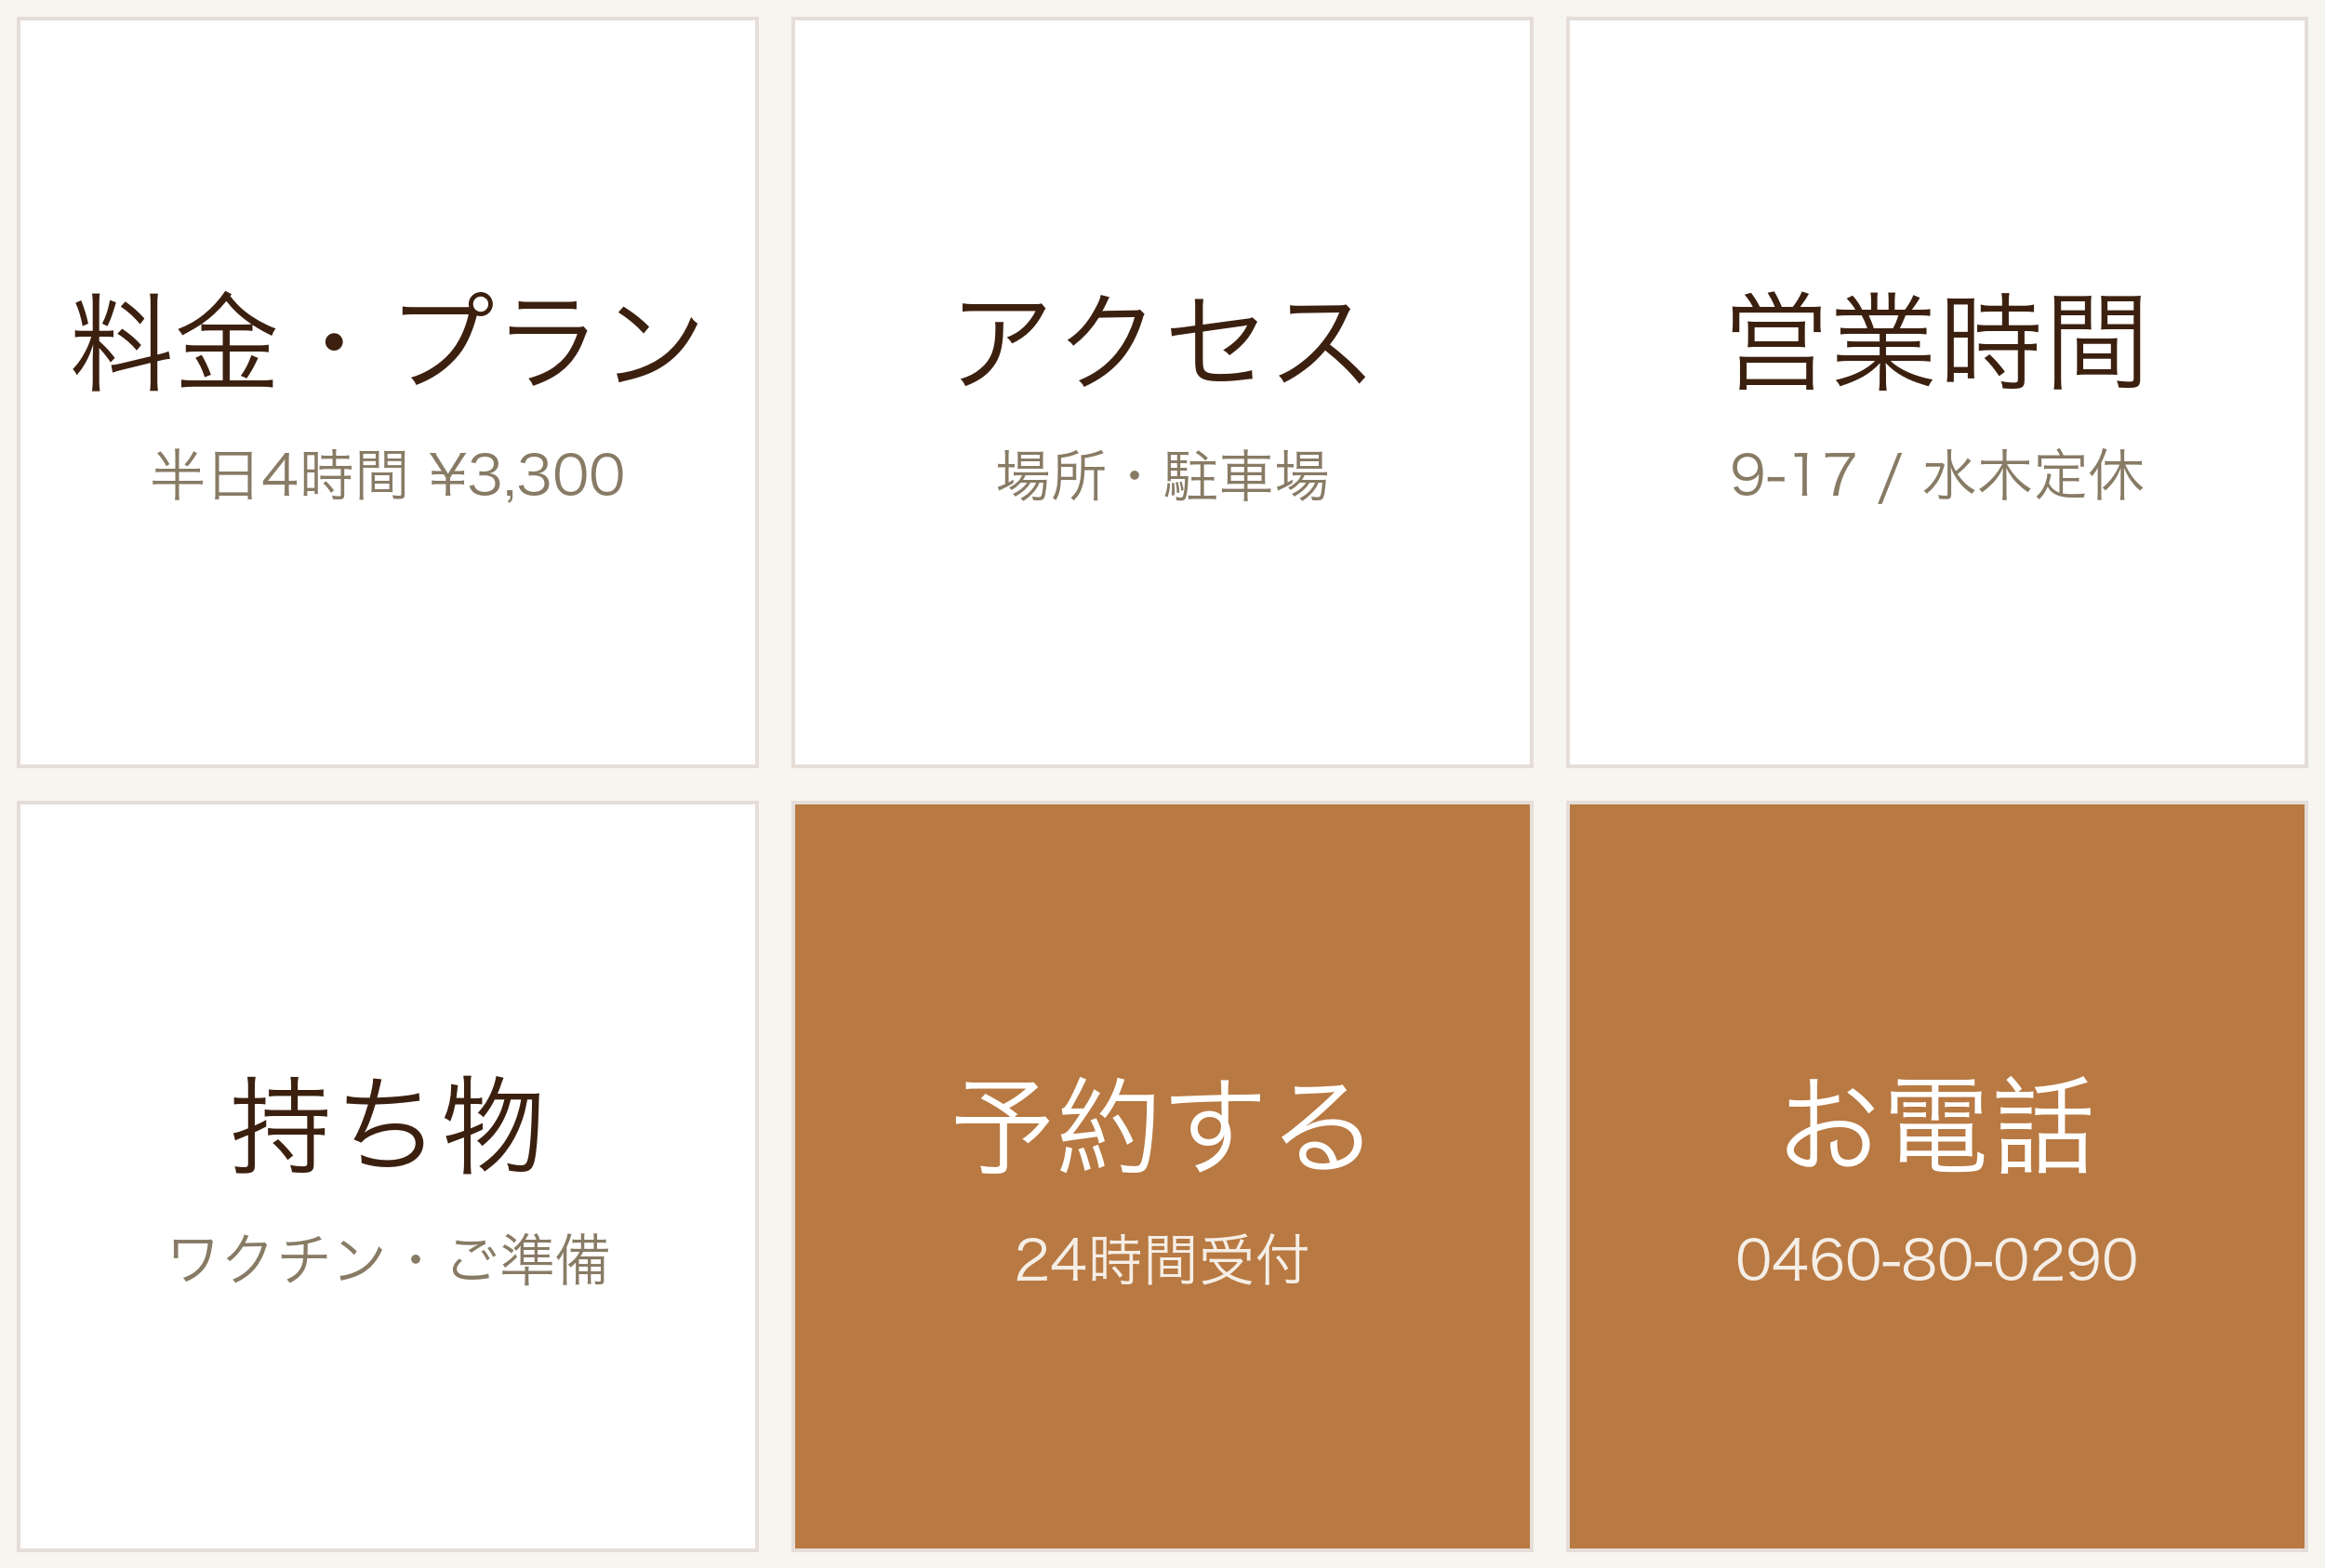
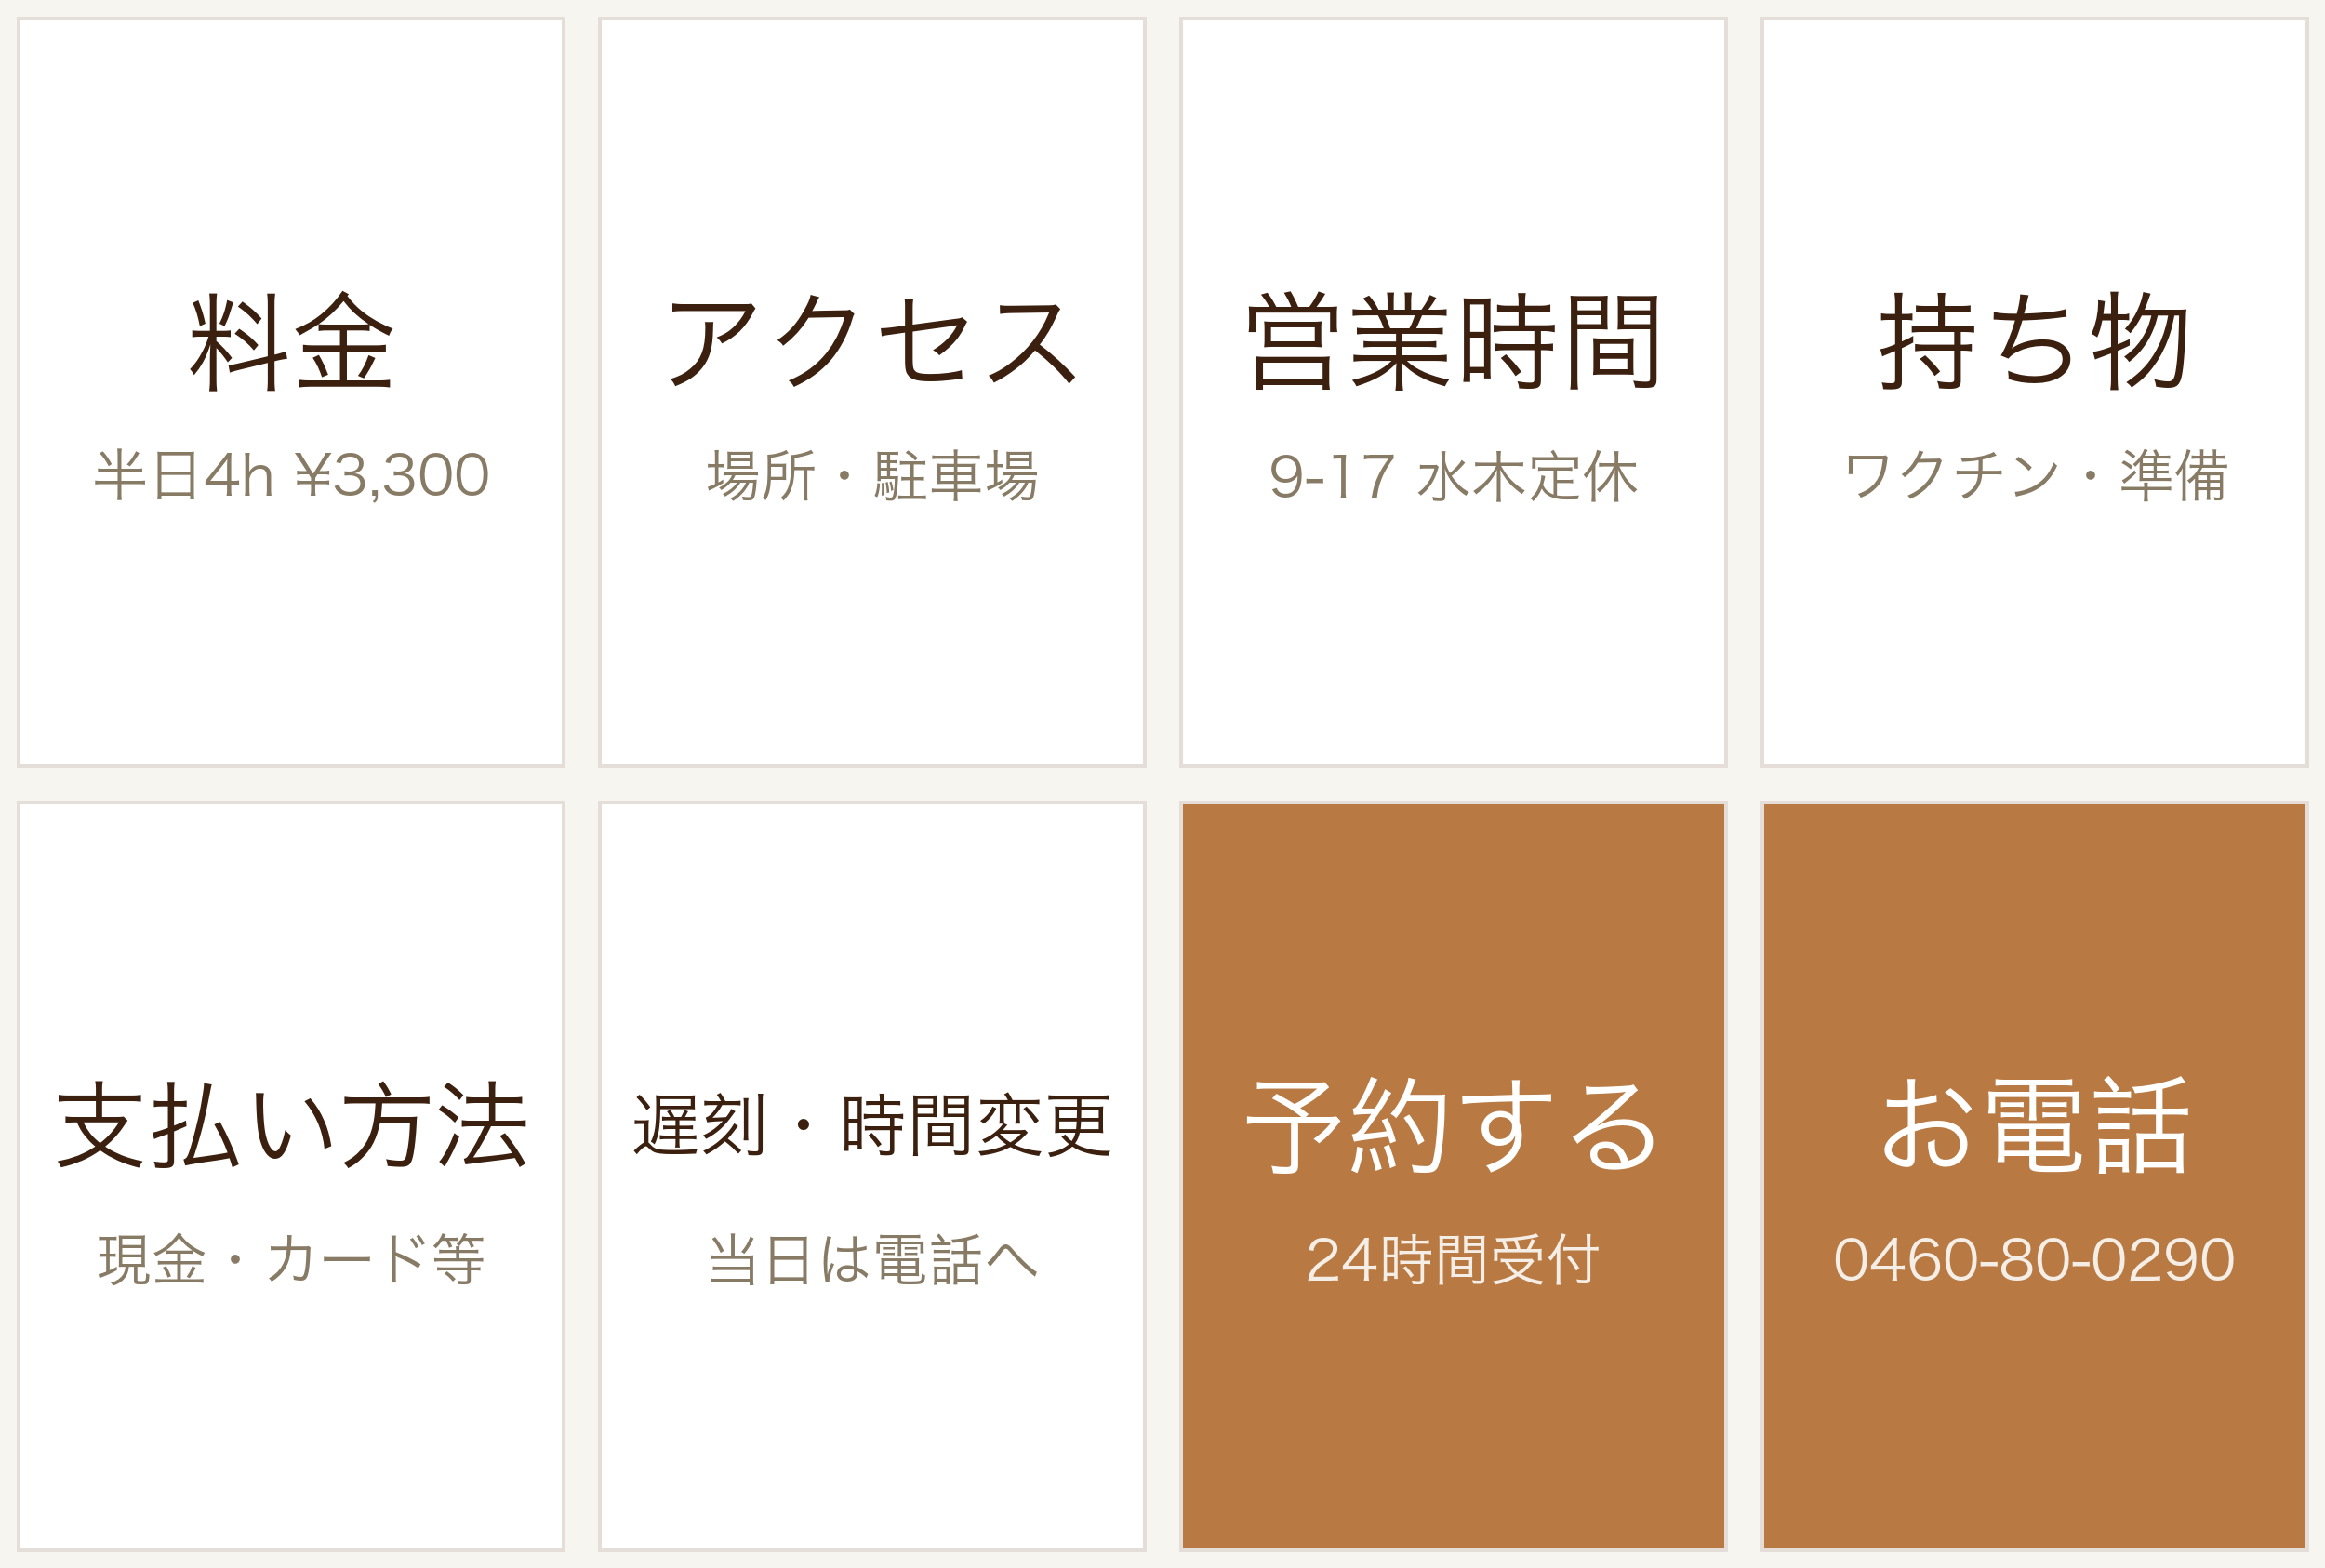
LINEメニューをpostback化し、自由文の問い合わせは常にスタッフ対応に変更
- リッチメニューのFAQボタンをmessage送信からpostbackに変更し、
  「ボタンで選んだ」か「お客様が自由文で打った」かをWebhook側で判別可能に
- ボタン経由（postback）は今まで通り即座に自動回答、アラートなし
- 自由文（message）は内容にかかわらず受付メッセージのみ返し、必ずスタッフへ
  アラートメールを送るよう統一（キーワード誤爆で的外れな自動回答をしないため）
- 上記により needsHuman フラグは不要になったため削除
- 新FAQ「到着時間の変更・遅刻」を追加し、メニューを4列×2行・8マスに拡張
  （支払い方法・到着時間の変更/遅刻を新規ボタン化）
- 回帰テスト(test-line-faq.ts)・敵対的テストツール(match-cases.ts)を新仕様に追従

diff --git a/src/lib/line-faq.ts b/src/lib/line-faq.ts
@@ -9,8 +9,11 @@
 //  - 対応外サービス（トリミング等のケア・送迎）は「料金」「予約」より前
 //    （"トリミング料金" "シャンプー予約" を対応外案内へ寄せる）。
 //
-// needsHuman=true のルールは、定型回答を返したうえでスタッフへアラートメールを送る。
-// needsHuman=false（確定回答が言える質問）は自動返信だけで完結＝不要なアラートを出さない。
+// 2026-07〜: リッチメニューのボタンは postback 化し、ボタン経由（=このcategory名を直接指定）
+// のときだけ bot が reply を自動送信する。お客様が自由文でタイプした場合は matchFaqReply の
+// category を「アラートメールのラベル用」に使うだけで、reply は送らずスタッフが個別対応する
+// （webhook/route.ts 参照）。そのため needsHuman フラグは廃止済み（旧: カテゴリ単位でアラート
+// 要否を制御していたが、今は「ボタン=自動」「自由文=常に人」で一律に決まるため不要）。
 import type { LineMessage } from "./line";
 
 export const BOOKING_URL = "https://liff.line.me/2009688745-qZi2jM4g";
@@ -20,7 +23,6 @@ export interface FaqRule {
   category: string;
   keywords: string[];
   reply: LineMessage[];
-  needsHuman?: boolean;
 }
 
 export const FAQ_RULES: FaqRule[] = [
@@ -29,7 +31,6 @@ export const FAQ_RULES: FaqRule[] = [
     // これを最上位に置かないと "預か/預け" で予約ルールに誤爆し、確認なく予約導線を返してしまう。
     category: "受入確認",
     keywords: ["猫", "ねこ", "ネコ", "発情", "ヒート", "多頭", "持病", "投薬", "てんかん", "噛みつ", "咬"],
-    needsHuman: true,
     reply: [
       {
         type: "text",
@@ -41,10 +42,26 @@ export const FAQ_RULES: FaqRule[] = [
     ],
   },
   {
+    // 到着時間の変更・遅刻（2026-07新設。「キャンセル/変更」より前に置く。
+    // "到着時間を変更したい" のように「変更」を含む文面がキャンセル/変更へ誤分類されるのを防ぐ）。
+    // 事前に分かっている変更は予約変更リンクへ、当日の急な遅れは電話へ、と案内先を明確に分ける
+    // （CEO確認: 当日分はLINEでなく電話が実態に合う）。
+    category: "到着時間の変更・遅刻",
+    keywords: ["遅刻", "遅れ", "遅くなり", "間に合わな", "到着が遅", "到着時間"],
+    reply: [
+      {
+        type: "text",
+        text:
+          "到着時間の変更・遅刻についてです🕐\n" +
+          "・あらかじめ分かっている到着時間の変更は、ご予約確定時にお送りした「変更はこちら」のリンクから承っております。\n" +
+          `・当日、道路事情などで到着が遅れる場合は、お電話（${TEL}）までご連絡ください。`,
+      },
+    ],
+  },
+  {
     // キャンセル・変更（「予約」より前。"予約を変更" を変更案内に寄せる）
     category: "キャンセル/変更",
     keywords: ["キャンセル", "取り消し", "取消", "変更", "日程変更", "リスケ"],
-    needsHuman: true,
     reply: [
       {
         type: "text",
@@ -74,7 +91,6 @@ export const FAQ_RULES: FaqRule[] = [
       // 送迎（限定的に）
       "送迎", "送り迎え", "ピックアップ", "お届け", "家まで迎え", "自宅まで迎え", "家まで送", "自宅まで送", "集荷",
     ],
-    needsHuman: false,
     reply: [
       {
         type: "text",
@@ -114,7 +130,6 @@ export const FAQ_RULES: FaqRule[] = [
       "クレジット", "クレカ", "カード", "タッチ決済",
       "電子マネー", "現金", "ペイペイ", "paypay", "PayPay", "QR決済", "交通系",
     ],
-    needsHuman: false,
     reply: [
       {
         type: "text",
@@ -211,7 +226,6 @@ export const FAQ_RULES: FaqRule[] = [
     category: "お散歩オプション",
     // 「運動させて」「外に連れ出して」「歩かせて」等の言い換えを追加（敵対的テスト2026-06-09）。
     keywords: ["散歩", "おさんぽ", "さんぽ", "お散歩", "運動", "歩かせ", "走らせ", "連れ出"],
-    needsHuman: false,
     reply: [
       {
         type: "text",
@@ -231,7 +245,6 @@ export const FAQ_RULES: FaqRule[] = [
     // ⚠️ "写真"/"動画" は外す＝「HPの写真可愛い」等の雑談に誤爆し、かつ写真要望は
     //    Botがカメラ案内で逃げるよりフォールバック→人間が実際に送る方が良いサービスのため。
     keywords: ["カメラ", "ライブカメラ", "ウェブカメラ", "様子", "見守", "モニタ", "面会"],
-    needsHuman: false,
     reply: [
       {
         type: "text",
@@ -258,27 +271,30 @@ export const FAQ_RULES: FaqRule[] = [
   },
 ];
 
-// 返信本文・カテゴリ・人間対応要否を返す。フォールバック（FAQ非該当）は人間対応が必要扱い。
-export function matchFaqReply(text: string): { reply: LineMessage[]; category: string; needsHuman: boolean } {
+// 自由文のカテゴリ判定のみに使う（スタッフ向けアラートメールのラベル表示用）。
+// お客様への自動返信は、ボタン(postback)経由のときだけ rule.reply を直接使う
+// （webhook/route.ts が category でFAQ_RULESを検索）。自由文には常に fallbackReply を
+// 返す＝人が確認する前提のため、キーワードが一致してもカテゴリ別の定型文は送らない。
+export function matchFaqReply(text: string): { category: string } {
   const t = text.trim();
   for (const rule of FAQ_RULES) {
     if (rule.keywords.some((k) => t.includes(k))) {
-      return { reply: rule.reply, category: rule.category, needsHuman: !!rule.needsHuman };
+      return { category: rule.category };
     }
   }
-  return { reply: fallbackReply(), category: "フォールバック", needsHuman: true };
+  return { category: "フォールバック" };
 }
 
-// フォールバック：ボットは24時間稼働。URLを本文に入れるとLINEがプレビュー画像カードを
-// 生成し、リンク2つで画像が2枚並んでしまうため、本文からURLは外し画面下のリッチメニュー
-// （予約する／各FAQボタン）へ誘導する＝プレビュー画像ゼロ＋24時間使える点を明示。
+// 自由文への受付メッセージ（共通）。ボットは24時間稼働。URLを本文に入れるとLINEが
+// プレビュー画像カードを生成し、リンク2つで画像が2枚並んでしまうため、本文からURLは
+// 外し画面下のリッチメニューへ誘導する＝プレビュー画像ゼロ＋24時間使える点を明示。
 export function fallbackReply(): LineMessage[] {
   return [
     {
       type: "text",
       text:
         "お問い合わせありがとうございます🐾\n" +
-        "料金・アクセス・営業時間・持ち物は、下のメニューから24時間いつでもご確認いただけます。\n" +
+        "料金・アクセス・営業時間・持ち物・お支払い方法などは、下のメニューから24時間いつでもご確認いただけます。\n" +
         `個別のご質問には、スタッフから順次お返事します。お急ぎはお電話（${TEL}）へ。\n` +
         "ご予約は下のメニュー【予約する】から24時間受付中です。",
     },

diff --git a/scripts/test-line-faq.ts b/scripts/test-line-faq.ts
@@ -1,5 +1,7 @@
 // LINE FAQ マッチャの決定論的テスト。実コード（src/lib/line-faq.ts の matchFaqReply）を
 // そのまま実走し、現実的な顧客文面が意図どおりのカテゴリへ落ちるかを検証する。
+// 2026-07〜: 自由文は常に fallbackReply＋アラートになるため（webhook/route.ts）、
+// ここではカテゴリ判定（アラートメールのラベル用）だけを検証する。needsHuman は廃止済み。
 // 実行: node scripts/test-line-faq.ts   （Node v23.6+ は .ts を直接実行可能）
 import { matchFaqReply } from "../src/lib/line-faq.ts";
 
@@ -76,6 +78,16 @@ const CASES: Case[] = [
   { text: "予約を変更できますか", expect: "キャンセル/変更", note: "予約語を含むが変更優先" },
   { text: "日程変更をお願いします", expect: "キャンセル/変更" },
 
+  // ───── 新規: 到着時間の変更・遅刻（2026-07・長谷部様ケースの再発防止）─────
+  { text: "今日車が混んでいて到着が遅れそうです", expect: "到着時間の変更・遅刻" },
+  { text: "少し遅刻しそうなのですが大丈夫でしょうか", expect: "到着時間の変更・遅刻" },
+  { text: "到着時間を変更したいのですが", expect: "到着時間の変更・遅刻" },
+  {
+    text: "初めまして。7月25日に9時から予約してます長谷部と申します。予約時間についてお聞きしたいのですが、お預かり時間が9時からになってると思いますが9時半から13時半とかでも大丈夫なんでしょうか？",
+    expect: "営業時間",
+    note: "実例(2026-07-05)。カテゴリラベルは営業時間のままだが、自由文は常にfallback+アラートになるため実害なし",
+  },
+
   // ───── 既存: 料金 ─────
   { text: "料金はいくらですか", expect: "料金" },
   { text: "1泊おいくらですか", expect: "料金" },
@@ -110,41 +122,22 @@ const CASES: Case[] = [
   { text: "泊まりで預けたい", expect: "予約" },
   { text: "明日預かってもらえますか", expect: "予約" },
 
-  // ───── フォールバック（FAQ非該当・needsHuman=true想定）─────
+  // ───── フォールバック（FAQ非該当）─────
   { text: "こんにちは", expect: "フォールバック" },
   { text: "ありがとうございました", expect: "フォールバック" },
   { text: "うちの犬はチワワです", expect: "フォールバック" },
   { text: "ペット保険ってどこのがおすすめですか？加入しといた方がいいのかなと", expect: "フォールバック", note: "旧:どこ で住所へ誤爆" },
 ];
 
-// needsHuman の期待値（false でないとアラートが鳴ってしまうカテゴリ）
-const SHOULD_NOT_ALERT = new Set([
-  "対応外サービス", "支払い方法", "お散歩オプション", "様子確認",
-  "料金", "ワクチン", "持ち物", "大型犬", "営業時間", "アクセス", "予約",
-]);
-const SHOULD_ALERT = new Set(["受入確認", "キャンセル/変更", "フォールバック"]);
-
 let pass = 0;
 const fails: string[] = [];
 
 for (const c of CASES) {
-  const { category, needsHuman } = matchFaqReply(c.text);
-  const catOk = category === c.expect;
-
-  // needsHuman の整合チェック（カテゴリが期待どおりの場合のみ評価）
-  let alertOk = true;
-  if (catOk) {
-    if (SHOULD_NOT_ALERT.has(category) && needsHuman) alertOk = false;
-    if (SHOULD_ALERT.has(category) && !needsHuman) alertOk = false;
-  }
-
-  if (catOk && alertOk) {
+  const { category } = matchFaqReply(c.text);
+  if (category === c.expect) {
     pass++;
   } else {
-    const reason = !catOk
-      ? `期待=${c.expect} 実際=${category}`
-      : `needsHuman不整合 (category=${category}, needsHuman=${needsHuman})`;
-    fails.push(`✗ "${c.text}" → ${reason}${c.note ? `  〈${c.note}〉` : ""}`);
+    fails.push(`✗ "${c.text}" → 期待=${c.expect} 実際=${category}${c.note ? `  〈${c.note}〉` : ""}`);
   }
 }
 
@@ -154,5 +147,5 @@ if (fails.length) {
   console.log(`\n❌ ${fails.length} 件 FAIL`);
   process.exit(1);
 } else {
-  console.log("✅ 全ケース PASS（カテゴリ・アラート要否ともに意図どおり）");
+  console.log("✅ 全ケース PASS（カテゴリ判定は意図どおり）");
 }

diff --git a/src/app/api/line/webhook/route.ts b/src/app/api/line/webhook/route.ts
@@ -4,7 +4,7 @@ import {
   sendLineReplyMessage,
   buildWelcomeMessage,
 } from "@/lib/line";
-import { matchFaqReply, nonTextReply } from "@/lib/line-faq";
+import { matchFaqReply, nonTextReply, fallbackReply, FAQ_RULES } from "@/lib/line-faq";
 import { sendLineStaffAlert } from "@/lib/email";
 import { recordInboundWithBotReply, ensureLineConversation } from "@/lib/line-store";
 import { createClient } from "@supabase/supabase-js";
@@ -54,18 +54,37 @@ async function handleEvent(event: LineEvent) {
       await ensureLineConversation(userId);
       break;
 
-    // メッセージ受信 → 定番FAQを自動回答、該当なしはフォールバック（すべてreply・無料）
+    // リッチメニューのボタン(postback) → お客様が「選んだ」ものだけ自動回答（アラートなし）。
+    // 自由文と違い、data=category名で一意に決まるためキーワード判定は使わない。
+    case "postback": {
+      const category = event.postback?.data ?? "";
+      const rule = FAQ_RULES.find((r) => r.category === category);
+      if (rule) {
+        await sendLineReplyMessage(replyToken, rule.reply);
+        await recordInboundWithBotReply({
+          lineUserId: userId,
+          inboundType: "text",
+          inboundText: category,
+          inboundMessageId: undefined,
+          botReply: rule.reply,
+        });
+      }
+      break;
+    }
+
+    // メッセージ受信（お客様が自由文で入力） → ボタンと違い、内容にかかわらず
+    // 受付メッセージのみ返し、必ずスタッフへエスカレーションする（自動のカテゴリ別
+    // 定型文は送らない＝キーワード誤爆でお客様の実際の質問に的外れな回答をしないため）。
     case "message": {
       const messageType = event.message?.type ?? "不明";
       if (messageType === "text") {
         const text = event.message?.text ?? "";
-        const { reply, category, needsHuman } = matchFaqReply(text);
+        const { category } = matchFaqReply(text);
+        const reply = fallbackReply();
         // reply token は受信から約1分・1回限り。先に返信して確実に消費する。
         await sendLineReplyMessage(replyToken, reply);
-        // 人間対応が必要なメッセージはスタッフへメールでエスカレーション
-        if (needsHuman) {
-          await alertStaff(userId, text, category);
-        }
+        // 自由文は内容を問わず必ずスタッフへメールでエスカレーション
+        await alertStaff(userId, text, category);
         // 受信トレイへ記録（reply送信後・独立処理。失敗してもreply/200を壊さない）
         await recordInboundWithBotReply({
           lineUserId: userId,
@@ -141,5 +160,6 @@ interface LineEvent {
   type: string;
   source?: { userId?: string; type?: string };
   message?: { type: string; text?: string; id?: string };
+  postback?: { data: string };
   replyToken?: string;
 }

diff --git a/scripts/match-cases.ts b/scripts/match-cases.ts
@@ -8,20 +8,15 @@ const cases: { text: string; expectedCategory: string; why?: string }[] = JSON.p
   readFileSync(path, "utf8")
 ).cases;
 
-const NO_ALERT = new Set([
-  "対応外サービス", "支払い方法", "お散歩オプション", "様子確認",
-  "料金", "ワクチン", "持ち物", "大型犬", "営業時間", "アクセス", "予約",
-]);
-
 let match = 0;
-const mismatches: { text: string; expected: string; actual: string; needsHuman: boolean; why?: string }[] = [];
+const mismatches: { text: string; expected: string; actual: string; why?: string }[] = [];
 
 for (const c of cases) {
   const r = matchFaqReply(c.text);
   if (r.category === c.expectedCategory) {
     match++;
   } else {
-    mismatches.push({ text: c.text, expected: c.expectedCategory, actual: r.category, needsHuman: r.needsHuman, why: c.why });
+    mismatches.push({ text: c.text, expected: c.expectedCategory, actual: r.category, why: c.why });
   }
 }
 

diff --git a/scripts/generate_line_richmenu.py b/scripts/generate_line_richmenu.py
@@ -1,13 +1,13 @@
 #!/usr/bin/env python3
-"""DogHub LINE リッチメニュー画像を生成（2500×1686・6マス）。
-ブランドカラー（globals.css の @theme と一致）で6分割の固定メニューを描画する。
+"""DogHub LINE リッチメニュー画像を生成（2500×1686・8マス）。
+ブランドカラー（globals.css の @theme と一致）で8分割の固定メニューを描画する。
 出力: web/scripts/line-richmenu.png
 """
 from PIL import Image, ImageDraw, ImageFont
 import os
 
 W, H = 2500, 1686
-COLS, ROWS = 3, 2
+COLS, ROWS = 4, 2
 CW, CH = W // COLS, H // ROWS
 
 # ブランドカラー
@@ -29,10 +29,12 @@ def font(size, bold=False):
 
 # 各セル: (見出し, サブ, アクセント背景か)
 CELLS = [
-    ("料金・プラン", "半日4時間 ¥3,300", False),
+    ("料金", "半日4h ¥3,300", False),
     ("アクセス", "場所・駐車場", False),
-    ("営業時間", "9-17 / 水木定休", False),
-    ("持ち物", "ワクチン・ご準備", False),
+    ("営業時間", "9-17 水木定休", False),
+    ("持ち物", "ワクチン・準備", False),
+    ("支払い方法", "現金・カード等", False),
+    ("遅刻・時間変更", "当日は電話へ", False),
     ("予約する", "24時間受付", True),
     ("お電話", "0460-80-0290", True),
 ]